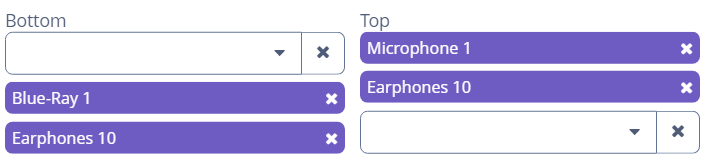
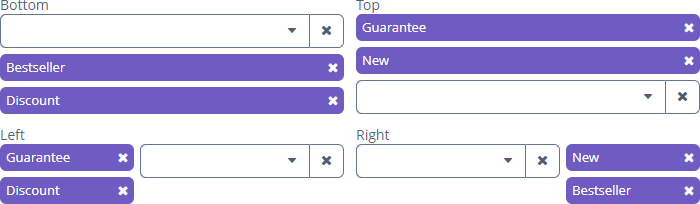
Add TagPicker samples (19)

diff --git a/src/main/resources/io/jmix/sampler/screen/ui/components/tagpicker/tagposition/tagpicker-tagposition-ru.html b/src/main/resources/io/jmix/sampler/screen/ui/components/tagpicker/tagposition/tagpicker-tagposition-ru.html
@@ -3,8 +3,8 @@
 </p>
 <ul>
     <li>
-        <code>tagPosition</code> - имеет позиции: <code>TOP</code>, <code>RIGHT</code>,
-        <code>BOTTOM</code>, <code>LEFT</code>.
+        <code>tagPosition</code> - имеет позиции: <code>TOP</code>, <code>RIGHT</code>, <code>BOTTOM</code>,
+        <code>LEFT</code>.
     </li>
     <li>
         <code>inlineTags</code> - определяет должны ли теги отображаться в одну строку.

diff --git a/src/main/resources/io/jmix/sampler/screen/ui/components/tagpicker/tagclick/tagpicker-tagclick-ru.html b/src/main/resources/io/jmix/sampler/screen/ui/components/tagpicker/tagclick/tagpicker-tagclick-ru.html
@@ -1,3 +1,3 @@
 <p>
-    <code>TagPicker</code> имеет метод для установки слушателя нажатия по тегу.
+    <code>TagPicker</code> имеет метод <code>addTagClickListener()</code> для добавления слушателя нажатия по тегу.
 </p>

diff --git a/src/main/resources/io/jmix/sampler/screen/ui/components/tagpicker/tagclick/tagpicker-tagclick-en.html b/src/main/resources/io/jmix/sampler/screen/ui/components/tagpicker/tagclick/tagpicker-tagclick-en.html
@@ -1,3 +1,3 @@
 <p>
-    <code>TagPicker</code> provides a method for setting tag click listener.
+    <code>TagPicker</code> provides a <code>addTagClickListener()</code> method for adding tag click listener.
 </p>

diff --git a/src/main/java/io/jmix/sampler/screen/ui/components/tagpicker/simple/TagPickerSimpleSample.java b/src/main/java/io/jmix/sampler/screen/ui/components/tagpicker/simple/TagPickerSimpleSample.java
@@ -1,7 +1,7 @@
 package io.jmix.sampler.screen.ui.components.tagpicker.simple;
 
 import io.jmix.core.Metadata;
-import io.jmix.sampler.entity.Order;
+import io.jmix.sampler.entity.Product;
 import io.jmix.ui.model.InstanceContainer;
 import io.jmix.ui.screen.ScreenFragment;
 import io.jmix.ui.screen.Subscribe;
@@ -14,7 +14,7 @@ import org.springframework.beans.factory.annotation.Autowired;
 public class TagPickerSimpleSample extends ScreenFragment {
 
     @Autowired
-    private InstanceContainer<Order> orderDc;
+    private InstanceContainer<Product> productDc;
     @Autowired
     private Metadata metadata;
 
@@ -22,7 +22,7 @@ public class TagPickerSimpleSample extends ScreenFragment {
     public void onInit(InitEvent event) {
         // InstanceContainer initialization. It is usually done automatically if the screen is
         // inherited from StandardEditor and is used as an entity editor.
-        Order order = metadata.create(Order.class);
-        orderDc.setItem(order);
+        Product product = metadata.create(Product.class);
+        productDc.setItem(product);
     }
 }

diff --git a/src/main/java/io/jmix/sampler/screen/ui/components/tagpicker/tagclick/TagPickerTagClickSample.java b/src/main/java/io/jmix/sampler/screen/ui/components/tagpicker/tagclick/TagPickerTagClickSample.java
@@ -1,6 +1,6 @@
 package io.jmix.sampler.screen.ui.components.tagpicker.tagclick;
 
-import io.jmix.sampler.entity.OrderItem;
+import io.jmix.sampler.entity.ProductTag;
 import io.jmix.ui.Notifications;
 import io.jmix.ui.component.TagPicker;
 import io.jmix.ui.screen.ScreenFragment;
@@ -17,7 +17,7 @@ public class TagPickerTagClickSample extends ScreenFragment {
     private Notifications notifications;
 
     @Subscribe("tagPicker")
-    public void onTagPickerTagClick(TagPicker.TagClickEvent<OrderItem> event) {
+    public void onTagPickerTagClick(TagPicker.TagClickEvent<ProductTag> event) {
         notifications.create(Notifications.NotificationType.HUMANIZED)
                 .withCaption(event.getItem().getInstanceName())
                 .show();

diff --git a/src/main/java/io/jmix/sampler/screen/entity/producttag/ProductTagBrowse.java b/src/main/java/io/jmix/sampler/screen/entity/producttag/ProductTagBrowse.java
@@ -19,7 +19,7 @@ package io.jmix.sampler.screen.entity.producttag;
 import io.jmix.ui.screen.*;
 import io.jmix.sampler.entity.ProductTag;
 
-@UiController("ProductTag.browse")
+@UiController("sampler_ProductTag.browse")
 @UiDescriptor("product-tag-browse.xml")
 @LookupComponent("productTagsTable")
 public class ProductTagBrowse extends StandardLookup<ProductTag> {

diff --git a/src/main/java/io/jmix/sampler/screen/entity/producttag/ProductTagEdit.java b/src/main/java/io/jmix/sampler/screen/entity/producttag/ProductTagEdit.java
@@ -19,7 +19,7 @@ package io.jmix.sampler.screen.entity.producttag;
 import io.jmix.ui.screen.*;
 import io.jmix.sampler.entity.ProductTag;
 
-@UiController("ProductTag.edit")
+@UiController("sampler_ProductTag.edit")
 @UiDescriptor("product-tag-edit.xml")
 @EditedEntityContainer("productTagDc")
 public class ProductTagEdit extends StandardEditor<ProductTag> {
